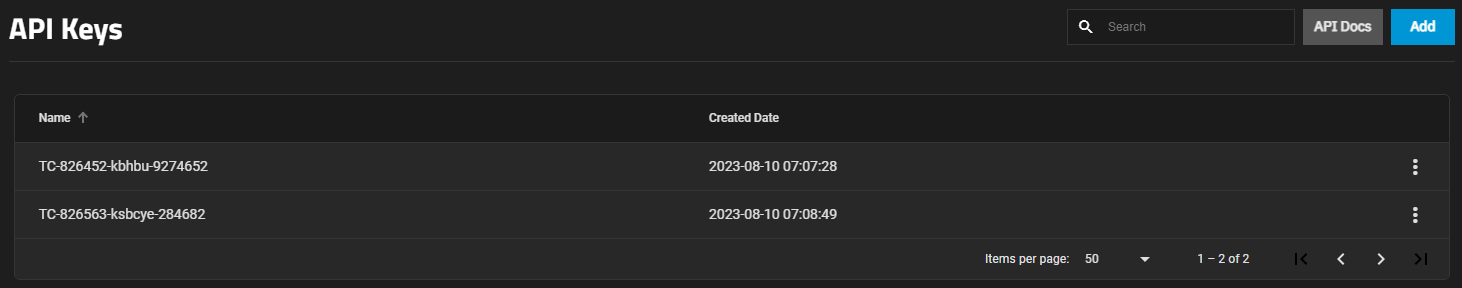
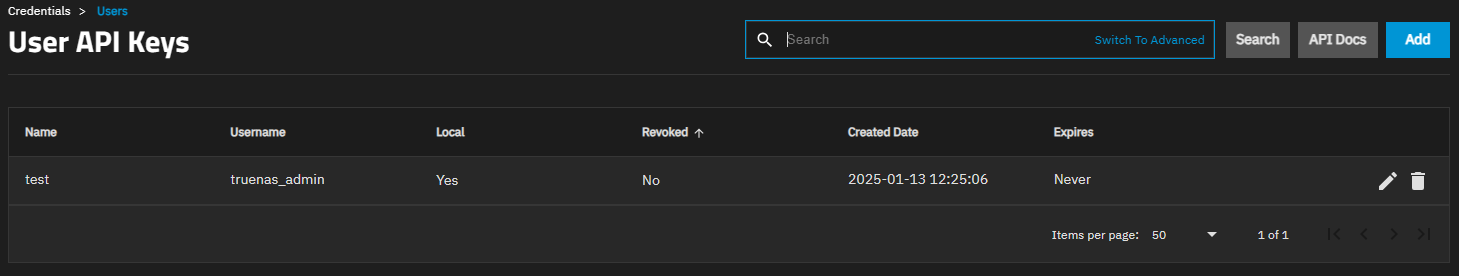
PD-1680 / 25.04 / Pd 1680 user linked api tokens (#3426)
* Update ManagingAPIKeys.md

* Create APIKeyCopy.png

* Create APIKeyExpires.png

* Update APIKeysScreen.png

* Update 25.04FeatureList.md

* Update ManagingAPIKeys.md

* Update APIKeysDelete.png

* Update APIKeysEdit.png

* Update APIKeysScreen.png

* Update ManagingAPIKeys.md

* Update APIKeysScreen.md

* Update ManagingAPIKeys.md

* Update APIKeysScreen.md

* Update ManagingAPIKeys.md

* Update APIKeyWarn.md

diff --git a/content/SCALE/SCALETutorials/TopToolbar/ManagingAPIKeys.md b/content/SCALE/SCALETutorials/TopToolbar/ManagingAPIKeys.md
@@ -1,6 +1,6 @@
 ---
 title: "Managing API Keys"
-description: "This tutorial shows how to add, create, or edit an API key in TrueNAS."
+description: "This tutorial shows how to add, create, or edit an API key in TrueNAS and access API Documentation."
 weight: 30
 aliases:
  - /scale/scaleclireference/auth/cliapikey/
@@ -9,8 +9,9 @@ tags:
 - apikeys
 ---
 
-The **API Keys** option on the top right toolbar **Settings** (user icon) dropdown menu displays the **API Keys** screen.
-This screen displays a list of API keys added to your system and allows you to add, edit, or delete keys.
+The <i class="material-icons" aria-hidden="true" title="laptop" style="vertical-align: top;">laptop</i> **My API Keys** option on the top right toolbar **Settings** (user icon) dropdown menu displays the **User API Keys** screen.
+This screen displays a list of API keys added to your system and allows you to add, search, edit, or delete keys.
+Click **API Docs** to view [API Documentation](#api-documentation).
 
 {{< trueimage src="/images/SCALE/Dashboard/APIKeysScreen.png" alt="API Keys Screen" id="API Keys Screen" >}}
 
@@ -18,26 +19,56 @@ This screen displays a list of API keys added to your system and allows you to a
 
 ## Adding an API Key
 
-Click **Add** to display a dialog window that lets users add a new API key.
+Click **Add** to open the **Add API Key** screen.
 
 {{< trueimage src="/images/SCALE/Dashboard/APIKeysAdd.png" alt="Add API Key" id="Add API Key" >}}
 
-Type a descriptive name and click **Add**. The system displays a confirmation dialog and adds a new API key to the list.
+Type a descriptive name for the key.
+Use the **Username** dropdown to select an administrative user to associate with this key.
 
-## Editing or Deleting an API Key
+Accept the default **Non-expiring** to create a token with no expiration date.
+A non-expiring key remains active until it is manually revoked or updated.
 
-Select the <span class="iconify" data-icon="eva:more-vertical-outline"></span> icon for any API key on the list to display options to manage that API key. Options are **Edit** or **Delete**.
+To create a key with a scheduled expiration, click to clear the **Non-expiring** checkbox.
+Click on the **Expires at** field and use the calendar dropdown to select the expiration date.
 
-{{< trueimage src="/images/SCALE/Dashboard/APIKeysEdit.png" alt="Edit API Key" id="Edit API Key" >}}
+{{< trueimage src="/images/SCALE/Dashboard/APIKeyExpires.png" alt="Key Expiration Settings" id="Key Expiration Settings" >}}
 
-Select the **Reset** to remove the existing API key and generate a new random key. The dialog displays the new key and the **Copy to Clipboard** option to copy the key to the clipboard.
+Click **Save** to generate the key.
+
+TrueNAS displays an **API Key** dialog containing the generated key value.
+
+{{< trueimage src="/images/SCALE/Dashboard/APIKeyCopy.png" alt="API Key Success Dialog" id="API Key Success Dialog" >}}
+
+Click **Copy to Clipboard** and save the API key string in a secure location.
 
 {{< include file="/static/includes/APIKeyWarn.md" >}}
 
-To delete, select **Confirm** on the delete dialog to activate the **Delete** button.
+Click **Close** to return to the **User API Keys** screen.
+
+## Managing API Keys
+
+### Editing an API Key
+
+Click <i class="material-icons" aria-hidden="true" title="Edit">edit</i> edit for any API key on the list to open the **Edit API Key** window and modify that key.
+
+{{< trueimage src="/images/SCALE/Dashboard/APIKeysEdit.png" alt="Edit API Key" id="Edit API Key" >}}
+
+Select the **Reset** to remove the existing API key and generate a new random key.
+The dialog displays the new key and the **Copy to Clipboard** option.
+Click to copy the new API key string then save it in a secure location.
+
+{{< include file="/static/includes/APIKeyWarn.md" >}}
+
+### Deleting an API Key
+
+Click <i class="material-icons" aria-hidden="true" title="Delete">delete</i> delete for any API key on the list to remove that key.
+TrueNAS opens a **Delete API Key** dialog
 
 {{< trueimage src="/images/SCALE/Dashboard/APIKeysDelete.png" alt="Delete API Key" id="Delete API Key" >}}
 
-## API Key Documentation
+Select **Confirm** then click **Delete**.
 
-Click **API Docs** to access API documentation that is built into the system.
+## API Documentation
+
+Click **API Docs** to access the TrueNAS API documentation that is built into the system.

diff --git a/content/SCALE/SCALEUIReference/TopToolbar/Settings/APIKeysScreen.md b/content/SCALE/SCALEUIReference/TopToolbar/Settings/APIKeysScreen.md
@@ -1,6 +1,6 @@
 ---
-title: "API Keys Screen"
-description: "Describes how the API keys screen in TrueNAS."
+title: "User API Keys Screen"
+description: "Describes how the User API Keys screen in TrueNAS and access API Documentation"
 weight: 20
 aliases: 
  - /scale/scaleclireference/auth/cliapikey/
@@ -9,17 +9,28 @@ tags:
 - toolbar
 ---
 
-The **API Keys** option on the top toolbar **Settings** dropdown menu displays the **API Keys** screen.
-This screen displays a list of TrueNAS API keys on your system and allows you to add, edit, or delete keys.
+The <i class="material-icons" aria-hidden="true" title="laptop" style="vertical-align: top;">laptop</i> **My API Keys** option on the top right toolbar **Settings** (user icon) dropdown menu displays the **User API Keys** screen.
+This screen displays a list of API keys added to your system and allows you to add, search, edit, or delete keys.
+**API Docs** opens the [API Documentation](#api-documentation).
 
 {{< trueimage src="/images/SCALE/Dashboard/APIKeysScreen.png" alt="API Keys Screen" id="API Keys Screen" >}}
 
-Click the <span class="iconify" data-icon="eva:more-vertical-outline"></span> icon to the right of an API key to display options for that key. API key options are **Edit** and **Delete**.
+**Add** opens the **Add API Key** screen.
 
-Use **Add** to add a new API key to your TrueNAS.
+{{< trueimage src="/images/SCALE/Dashboard/APIKeysAdd.png" alt="Add API Key" id="Add API Key" >}}
 
 {{< include file="/static/includes/APIKeyWarn.md" >}}
 
-## API Key Documentation
+<i class="material-icons" aria-hidden="true" title="Edit">edit</i> edit for any API key on the list openss the **Edit API Key** window to modify that key.
 
-Click **API Docs** to access API documentation for your system.
+{{< trueimage src="/images/SCALE/Dashboard/APIKeysEdit.png" alt="Edit API Key" id="Edit API Key" >}}
+
+**Reset** removes the existing API key and generates a new random key.
+
+<i class="material-icons" aria-hidden="true" title="Delete">delete</i> delete for any API key on the list opens a **Delete API Key** dialog to remove that key.
+
+{{< trueimage src="/images/SCALE/Dashboard/APIKeysDelete.png" alt="Delete API Key" id="Delete API Key" >}}
+
+## API Documentation
+
+**API Docs** opens the TrueNAS API documentation that is built into the system.

diff --git a/static/includes/25.04FeatureList.md b/static/includes/25.04FeatureList.md
@@ -9,11 +9,13 @@
 
 * Versioned TrueNAS API
 
+* User-linked API Keys (see [Managing API Keys]({{< relref "/scale/scaletutorials/toptoolbar/managingapikeys.md" >}}))
+
 * Improved UI Login Experience ([NAS-130810](https://ixsystems.atlassian.net/browse/NAS-130810)).
 
-* Improved STIG Compliance and Security Focus ([NAS-127235](https://ixsystems.atlassian.net/browse/NAS-127235))
-
 <--->
+
+* Improved STIG Compliance and Security Focus ([NAS-127235](https://ixsystems.atlassian.net/browse/NAS-127235))
 
 * Containers (Sandboxes) with Incus (Experimental Community Feature) ([NAS-130251](https://ixsystems.atlassian.net/browse/NAS-130251))
 

diff --git a/static/includes/APIKeyWarn.md b/static/includes/APIKeyWarn.md
@@ -1,5 +1,6 @@
 &NewLine;
 
 {{< hint type=warning >}}
-Always back up and secure keys. The key string displays only one time, at creation!
+Always back up and secure keys.
+TrueNAS displays the key string only one time after creation, in the **API Key** confirmation dialog.
 {{< /hint >}}
